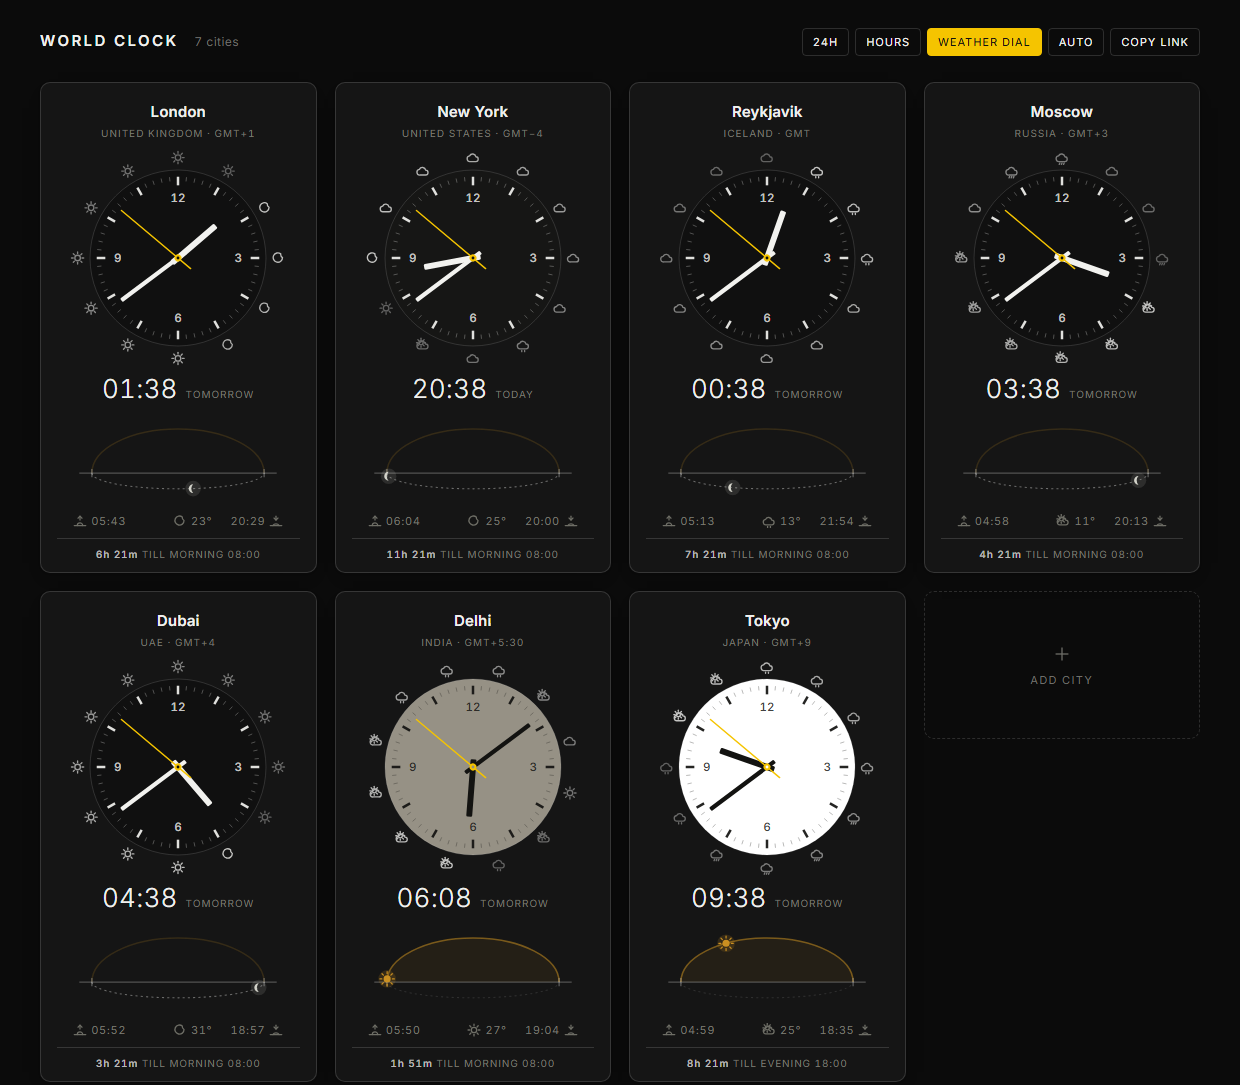
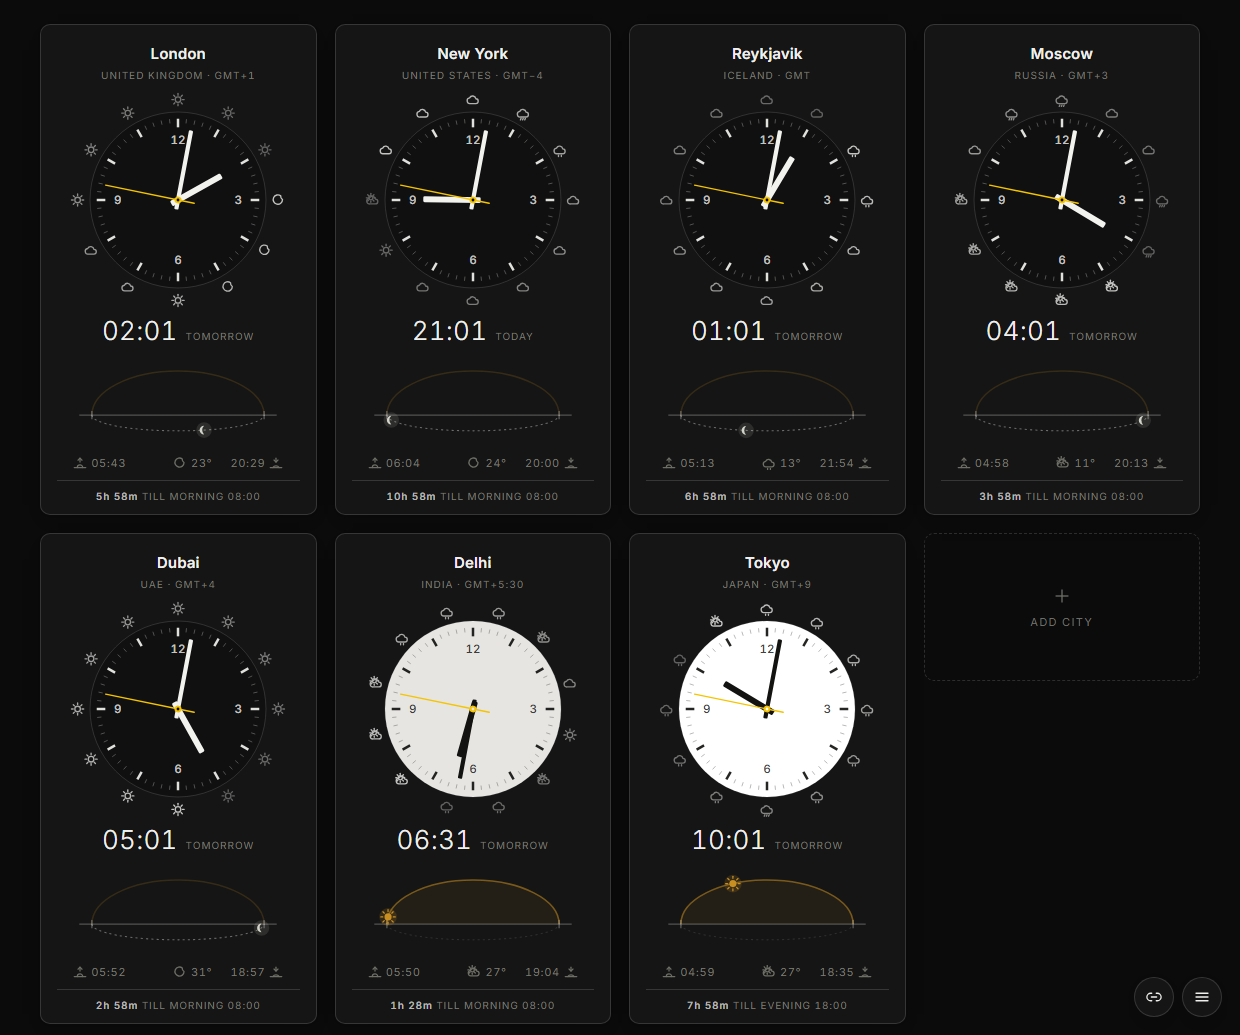
Update README for the floating controls
Re-shot every screenshot, since removing the header changed all of them, and
added one of the open settings menu.

Renames the mode references in the prose to match the new labels: Working
hours / Real sun for the dark clock face, and Dial / Dome / Off for the
forecast placement.

diff --git a/README.md b/README.md
@@ -14,6 +14,9 @@ keep working.
 
 ![The dashboard in daylight](docs/board-light.png)
 
+There is no header — the board is the whole page, and the controls live in two
+floating buttons in the bottom-right: copy-link and settings.
+
 Each card carries a dial, a twelve-hour forecast ring, the local time, a sky dome
 showing where the sun is in that city's day, and a countdown to the next end of the
 working day.
@@ -32,6 +35,13 @@ local time. Same-name cities are distinguished by region — the reason `Cambrid
 appears twice below.
 
 ![Searching for a city](docs/city-picker.png)
+
+The settings menu shows every mode at once rather than hiding them behind a button
+you have to click repeatedly, and explains whichever one is selected. Two of these
+are modes rather than on/off switches, which a cycling button made impossible to
+discover.
+
+![The settings menu](docs/settings.png)
 
 The forecast can ride the sky dome instead of the dial, covering the hours left in the
 current span rather than a fixed twelve.
@@ -65,8 +75,8 @@ Massachusetts`. Same-name cities get distinct slugs (`cambridge-ma` vs `cambridg
 disambiguates any collision rather than letting one city silently overwrite another.
 
 Whatever is on screen is written back to the URL, so the address bar is always a
-shareable link (`Copy link` puts it on the clipboard). The same list is saved to
-`localStorage`, so a bare `index.html` reopens your last board. A `?cities=`
+shareable link — the copy-link button puts it on the clipboard. The same list is saved
+to `localStorage`, so a bare `index.html` reopens your last board. A `?cities=`
 parameter always wins over the saved list.
 
 ## Reading a clock
@@ -93,21 +103,21 @@ parameter always wins over the saved list.
   the same grey as the dial and disappeared, so they step from black to white
   instead. Black on mid-grey is roughly 5:1 and white on mid-grey roughly 4:1, so
   both halves of the fade stay readable.
-- **`Hours` / `Solar` chooses what darkness means.** `Hours` (the default) uses the
-  fixed evening window in `CONFIG`, fading over 45 minutes either side — every city
-  behaves the same, which makes the board easy to scan. `Solar` uses the sun's true
-  altitude, fading across civil twilight, so high latitudes look right:
+- **Dark clock face** decides what darkness means. *Working hours* (the default) uses
+  the fixed evening window in `CONFIG`, fading over 45 minutes either side — every
+  city behaves the same, which makes the board easy to scan. *Real sun* uses the
+  sun's true altitude, fading across civil twilight, so high latitudes look right:
 
   ```
   Stockholm, one character per hour, '.' = white face, '#' = black
-  jun21/hours:  ######+.............+###
-  jun21/solar:  ###*..................:*     sunrise 03:32, sunset 22:09
-  dec21/hours:  ######+.............+###
-  dec21/solar:  #########:.....+########     sunrise 08:44, sunset 14:49
+  jun21/working hours:  ######+.............+###
+  jun21/real sun:       ###*..................:*     sunrise 03:32, sunset 22:09
+  dec21/working hours:  ######+.............+###
+  dec21/real sun:       #########:.....+########     sunrise 08:44, sunset 14:49
   ```
 
-  The page background follows the majority of the board while the theme button is
-  on `Auto`.
+  The page background follows the majority of the board while *Page theme* is on
+  *Auto*.
 - **One quiet line at the foot** counts down to whichever end of the working day
   comes round next — `11h 57m till morning 08:00`, or `57m till evening 18:00` if
   that is sooner.
@@ -128,18 +138,18 @@ const CONFIG = {
 };
 ```
 
-In `Hours` mode the dark face is deliberately on fixed hours while the sun and moon
+On *Working hours* the dark face is deliberately on fixed hours while the sun and moon
 follow real astronomy, so the two can legitimately disagree: Tokyo at 05:21 shows a
 black face with the sun already up on the dome, which is exactly the situation you
-want to see before scheduling a call there. `Solar` mode removes that disagreement
-at the cost of every city behaving differently.
+want to see before scheduling a call there. *Real sun* removes that disagreement at
+the cost of every city behaving differently.
 
 ## Weather
 
-The `Weather` button cycles three placements. Both draw current conditions and
-temperature in the middle of the label row.
+Three placements, all of which draw current conditions and temperature in the middle
+of the label row.
 
-**`dial` (default)** — twelve icons in a ring outside the dial, one per hour for the
+**Dial (default)** — twelve icons in a ring outside the dial, one per hour for the
 next twelve hours. The analog face already maps hours to angles, so each forecast
 hour sits at its own hour position and the ring reads clockwise from the hour hand.
 The angle comes from that hour's local wall-clock time rather than a slot index, so
@@ -147,21 +157,20 @@ half-hour zones like Kolkata and Kathmandu land correctly between marks. Opacity
 falls off with distance in time, which shows the reading direction and keeps the ring
 from being ambiguous about which icon is the next hour.
 
-**`dome`** — icons along the sky dome for the hours remaining in the current span:
+**Dome** — icons along the sky dome for the hours remaining in the current span:
 now until sunset by day, now until sunrise by night. Spaced by distance along the
 arc rather than by clock hour, because `skyX` is a cosine that barely moves near
 sunrise and sunset while the hours keep passing, so every-Nth-hour piles them into a
 heap at the ends. The trade-off is that a span with little arc left shows fewer
 icons — late afternoon might only fit two before sunset.
 
-**`off`** — no forecast, no requests, and the dial gets a slightly roomier viewBox.
+**Off** — no forecast, no requests, and the dial gets a slightly roomier viewBox.
 
 Data comes from [Open-Meteo](https://open-meteo.com), which needs no API key and
 allows browser requests. One call per city covers 72 hours; responses are cached in
 `localStorage` for 30 minutes. If the request fails, the icons simply don't appear.
 
-The `24h` button toggles 12/24-hour display; `Auto` cycles the page theme through
-auto → light → dark. Both preferences persist locally.
+Every setting in the menu persists to `localStorage`.
 
 ## Sun and moon calculations
 
